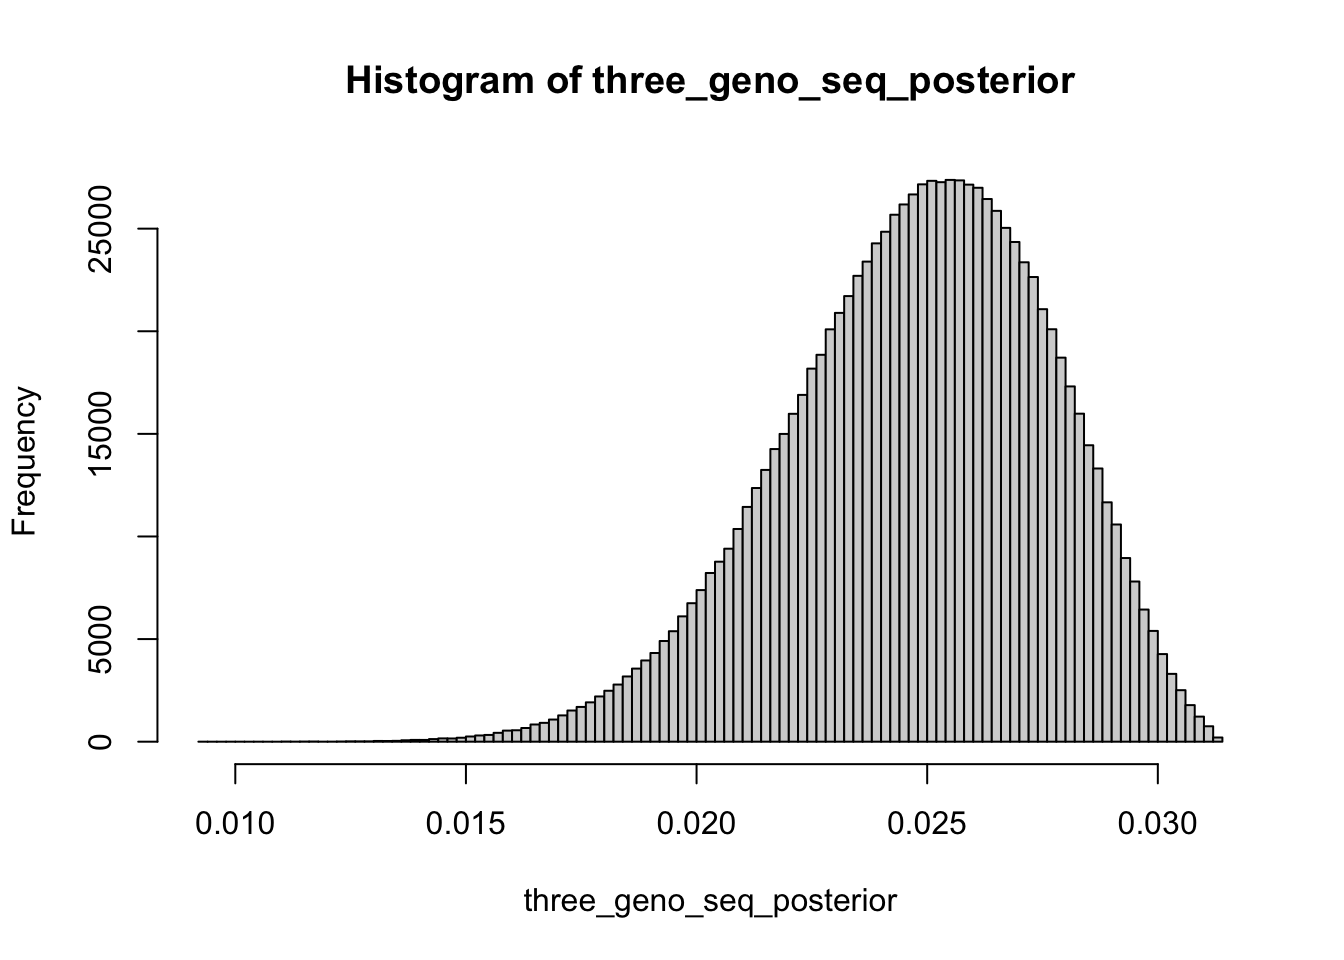
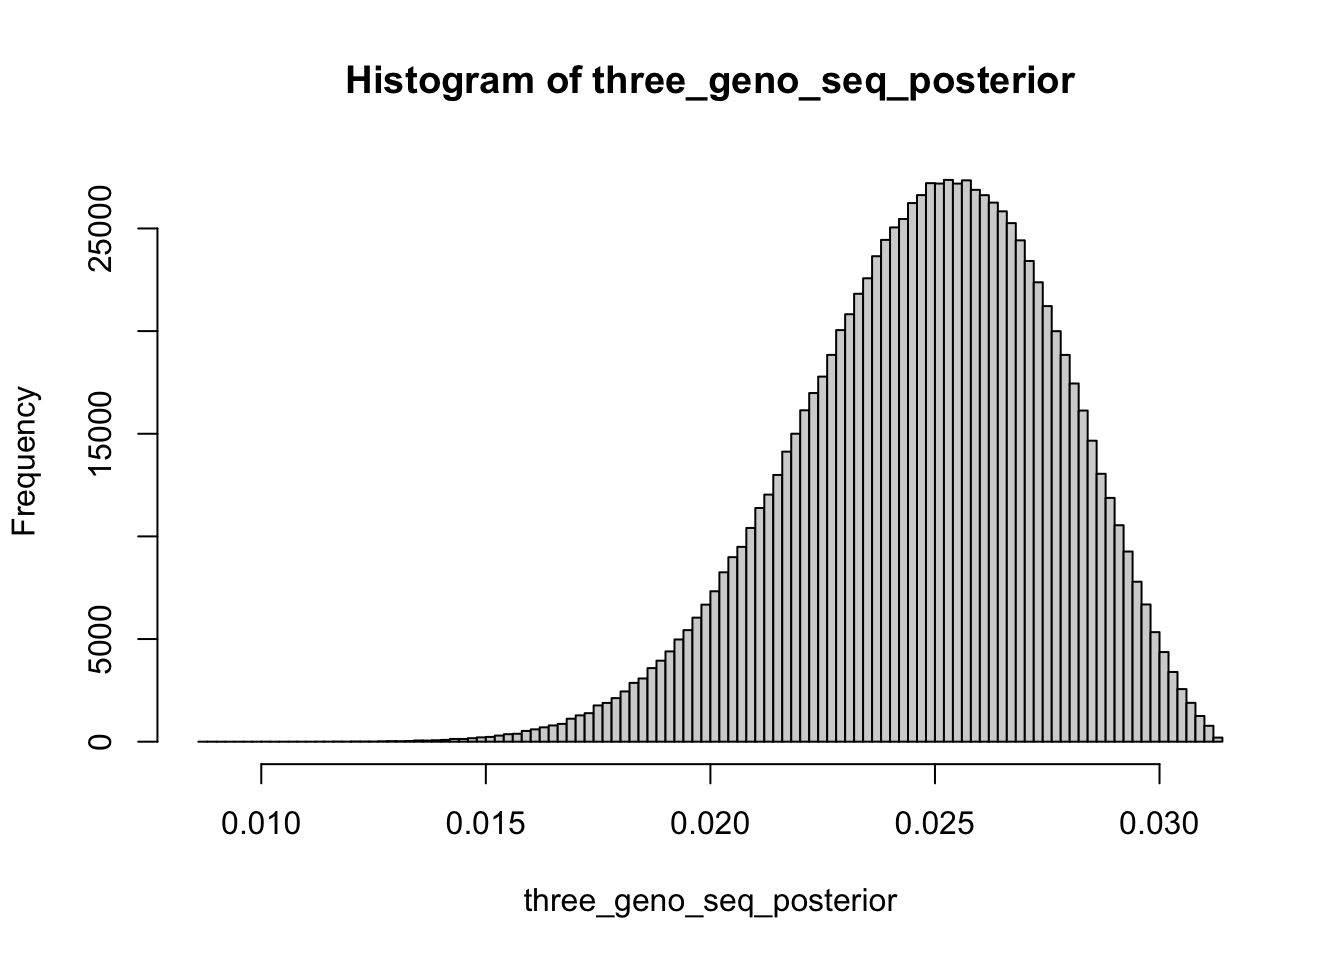
Rebuilt the whole book

diff --git a/docs/probinf.html b/docs/probinf.html
@@ -495,8 +495,8 @@ P(p_A~|~\boldsymbol{Y}) &amp;\propto {p_A}^{0}(1-p_A)^{0} \times p_A^{73}(1-p_A)
 <div class="cell">
 <div class="sourceCode cell-code" id="cb4"><pre class="sourceCode r code-with-copy"><code class="sourceCode r"><span id="cb4-1"><a href="#cb4-1" aria-hidden="true" tabindex="-1"></a>pA[<span class="dv">1</span><span class="sc">:</span><span class="dv">10</span>]</span></code><button title="Copy to Clipboard" class="code-copy-button"><i class="bi"></i></button></pre></div>
 <div class="cell-output cell-output-stdout">
-<pre><code> [1] 0.3727846 0.4275731 0.3750369 0.3945403 0.3489869 0.3323300 0.4281498
- [8] 0.3566142 0.3577211 0.3591492</code></pre>
+<pre><code> [1] 0.3215654 0.3872057 0.4566882 0.3987812 0.3465135 0.3604668 0.3416825
+ [8] 0.3899478 0.2766008 0.3067209</code></pre>
 </div>
 </div>
 <p>We call this a “vanilla” Monte Carlo sample because every member of the sample was independent—this is not <em>Markov chain</em> Monte Carlo.</p>
@@ -511,21 +511,21 @@ P(p_A~|~\boldsymbol{Y}) &amp;\propto {p_A}^{0}(1-p_A)^{0} \times p_A^{73}(1-p_A)
 <div class="cell">
 <div class="sourceCode cell-code" id="cb7"><pre class="sourceCode r code-with-copy"><code class="sourceCode r"><span id="cb7-1"><a href="#cb7-1" aria-hidden="true" tabindex="-1"></a><span class="fu">mean</span>(pA)</span></code><button title="Copy to Clipboard" class="code-copy-button"><i class="bi"></i></button></pre></div>
 <div class="cell-output cell-output-stdout">
-<pre><code>[1] 0.366302</code></pre>
+<pre><code>[1] 0.3664089</code></pre>
 </div>
 </div>
 <p>as is the posterior median:</p>
 <div class="cell">
 <div class="sourceCode cell-code" id="cb9"><pre class="sourceCode r code-with-copy"><code class="sourceCode r"><span id="cb9-1"><a href="#cb9-1" aria-hidden="true" tabindex="-1"></a><span class="fu">median</span>(pA)</span></code><button title="Copy to Clipboard" class="code-copy-button"><i class="bi"></i></button></pre></div>
 <div class="cell-output cell-output-stdout">
-<pre><code>[1] 0.3658866</code></pre>
+<pre><code>[1] 0.3659159</code></pre>
 </div>
 </div>
 <p>Or the standard deviation of the posterior distribution:</p>
 <div class="cell">
 <div class="sourceCode cell-code" id="cb11"><pre class="sourceCode r code-with-copy"><code class="sourceCode r"><span id="cb11-1"><a href="#cb11-1" aria-hidden="true" tabindex="-1"></a><span class="fu">sd</span>(pA)</span></code><button title="Copy to Clipboard" class="code-copy-button"><i class="bi"></i></button></pre></div>
 <div class="cell-output cell-output-stdout">
-<pre><code>[1] 0.03379342</code></pre>
+<pre><code>[1] 0.03385392</code></pre>
 </div>
 </div>
 <p>Or, the 90%-equal-tail Credible Interval</p>
@@ -533,7 +533,7 @@ P(p_A~|~\boldsymbol{Y}) &amp;\propto {p_A}^{0}(1-p_A)^{0} \times p_A^{73}(1-p_A)
 <div class="sourceCode cell-code" id="cb13"><pre class="sourceCode r code-with-copy"><code class="sourceCode r"><span id="cb13-1"><a href="#cb13-1" aria-hidden="true" tabindex="-1"></a><span class="fu">quantile</span>(pA, <span class="at">probs =</span> <span class="fu">c</span>(<span class="fl">0.05</span>, <span class="fl">0.95</span>))</span></code><button title="Copy to Clipboard" class="code-copy-button"><i class="bi"></i></button></pre></div>
 <div class="cell-output cell-output-stdout">
 <pre><code>       5%       95% 
-0.3114856 0.4226150 </code></pre>
+0.3115247 0.4228907 </code></pre>
 </div>
 </div>
 <p>All of those quantities could have been obtained analytically in this case, but it is a lot simpler to just work with a Monte Carlo sample because the operations are the same with every Monte Carlo sample (which is not necessarily true of every analytical distribution…).</p>
